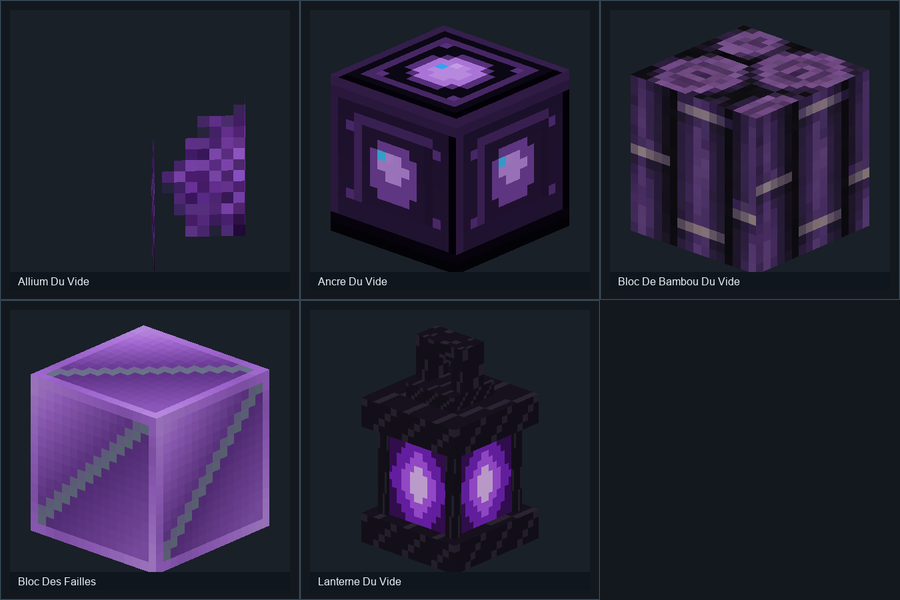
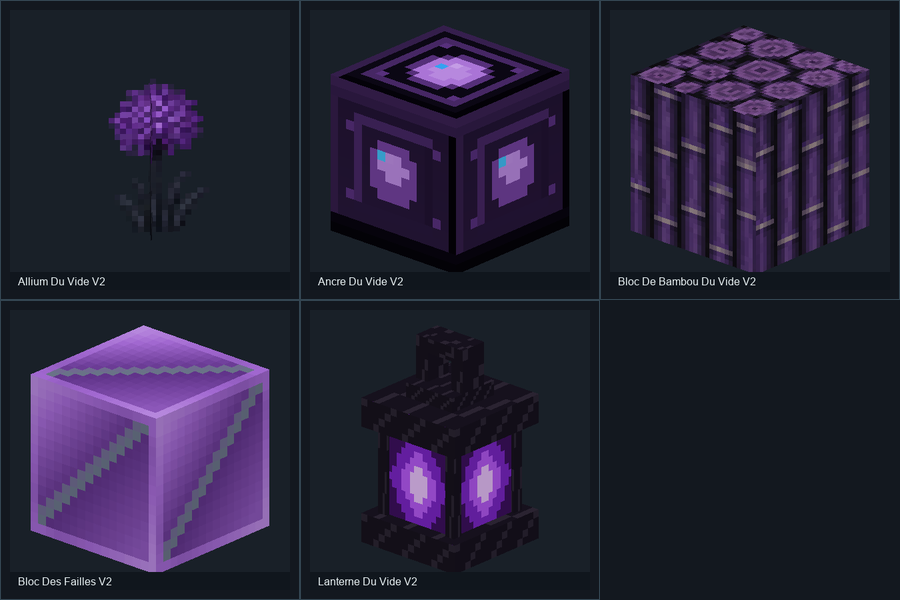
Add geometry-based 3D previews and native mod model assets

diff --git a/docs/Diagnostic-UV-2026-10-10.md b/docs/Diagnostic-UV-2026-10-10.md
@@ -1,0 +1,35 @@
+# Diagnostic des textures 3D — Corrupted Portal
+
+Les images initiales n'avaient pas toutes les coordonnées UV correctes. Les aperçus mis à jour utilisent toujours les géométries du JAR audité, mais corrigent le traitement des textures.
+
+## Erreurs vérifiées
+
+- Dans Minecraft Java, les UV des modèles de blocs sont exprimées dans un espace de référence 16 × 16. Un PNG 32 × 32 exige donc de multiplier les coordonnées UV par deux, au lieu de n'utiliser que son quart supérieur gauche.
+
+- Le dépliage des cubes GeckoLib utilise l'ordre est, nord, ouest, sud, pas l'inversion des faces latérales employée par le premier convertisseur.
+
+- Les inversions et les rotations UV sont désormais traitées. Les textures PNG d'origine ne sont pas redessinées.
+
+## Comparaison de la même géométrie JAR
+
+Les modèles de la colonne de gauche sont les anciens aperçus UV1 conservés pour vérification; les modèles de droite sont les nouveaux aperçus UV2.
+
+| Modèle | Avant : projection incorrecte | Après : UV corrigées |
+
+| --- | --- | --- |
+
+| bloc allium du vide | <img src="../assets/modeles_3d/historique_uv_v1/bloc_allium_du_vide.png" width="195"> | <img src="../assets/modeles_3d/bloc_allium_du_vide.png" width="195"> |
+
+| bloc bloc de bambou du vide | <img src="../assets/modeles_3d/historique_uv_v1/bloc_bloc_de_bambou_du_vide.png" width="195"> | <img src="../assets/modeles_3d/bloc_bloc_de_bambou_du_vide.png" width="195"> |
+
+| bloc ancre du vide | <img src="../assets/modeles_3d/historique_uv_v1/bloc_ancre_du_vide.png" width="195"> | <img src="../assets/modeles_3d/bloc_ancre_du_vide.png" width="195"> |
+
+## Entités Java
+
+Certaines entités de Corrupted Portal utilisent une géométrie Java et non des fichiers GeckoLib directement lisibles. Leur PNG ne permet pas à lui seul de reconstruire fidèlement la créature. Aucune fausse silhouette n'a été créée.
+
+## Limites importantes
+
+Les rendus logiciels ne sont pas des captures de Minecraft : animations, UV de couches secondaires, éclairage émissif, rotations par blockstates et effets de rendu Java peuvent être différents. Les images ne sont plus de simples PNG dépliés, mais un contrôle dans Blockbench ou Minecraft reste nécessaire pour assurer la correspondance parfaite.
+
+[Galerie des modèles 3D](Modeles-3D.md) · [Accueil](../README.md)

diff --git a/docs/Modeles-3D.md b/docs/Modeles-3D.md
@@ -2,6 +2,8 @@
 
 **Ces images montrent les véritables formes 3D reconstruites à partir des modèles contenus dans les JARs et de leurs coordonnées UV.** Ce ne sont plus les planches de textures brutes.
 
+**Attention aux coordonnées UV :** les aperçus ont été recalculés avec une correspondance corrigée entre les coordonnées UV des modèles JSON Minecraft et la résolution des PNG, ainsi que l'ordre des faces Box UV GeckoLib. Les animations et le rendu exact en jeu restent à valider. [Lire le diagnostic avec images avant/après](Diagnostic-UV-2026-10-10.md).
+
 L'aperçu utilise une caméra isométrique, une pose de repos et un éclairage logiciel. Il ne représente pas une capture d'écran de Minecraft : les animations, les shaders, les couches émissives et certaines rotations peuvent varier en jeu.
 
 Les fichiers de modèle natifs extraits du JAR restent accessibles à côté des images ; aucun modèle n'a été inventé à partir du PNG seul.

diff --git a/README.md b/README.md
@@ -9,7 +9,11 @@ Le monde du Vide propose des failles, portails, monstres corrompus, équipement 
 
 **Type :** fabric · **Archive :** CurseForge 0.1.1 ; build locale 0.1.3, MC 1.21.x et 26.x.
 
-## Vrais modèles 3D
+## Modèles 3D issus du JAR
+
+[Diagnostic UV et géométrie](docs/Diagnostic-UV-2026-10-10.md) — pourquoi certaines textures étaient mal appliquées et pourquoi l'ancienne géométrie Blockbench diffère du JAR.
+
+
 
 Les entités et les blocs sont maintenant visibles sous forme de rendus 3D réalisés **avec la géométrie et les textures du vrai mod** ; les planches UV sont conservées séparément pour les créateurs de contenu.
 
